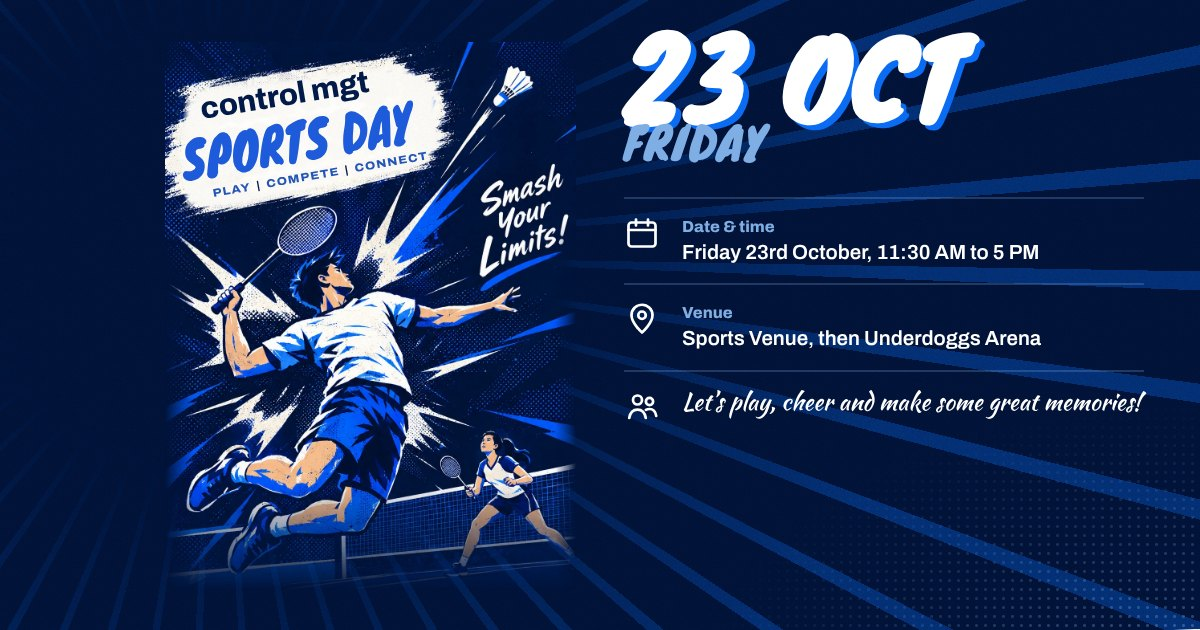
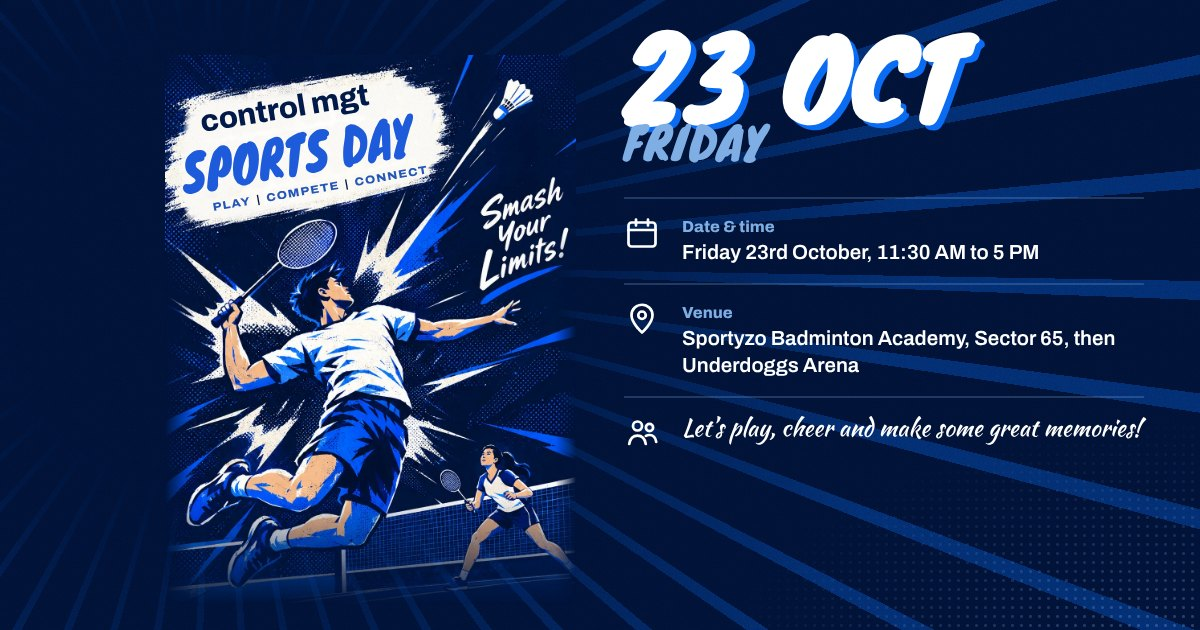
Add Sportyzo Badminton Academy as the sports venue
Claude-Session: https://claude.ai/code/session_0199VGFFxg9JU4CeF45dyatY

diff --git a/v2.html b/v2.html
@@ -4,10 +4,10 @@
 <meta charset="utf-8">
 <meta name="viewport" content="width=device-width, initial-scale=1, viewport-fit=cover">
 <meta name="theme-color" content="#050B2E">
-<meta name="description" content="Sports Day, Friday 23 October. Games at the sports venue, then food and the Strike Out bowling championship at Underdoggs Arena.">
+<meta name="description" content="Sports Day, Friday 23 October. Games at Sportyzo Badminton Academy, Sector 65, then food and the Strike Out bowling championship at Underdoggs Arena.">
 <meta property="og:type" content="website">
 <meta property="og:title" content="Control Mgt Sports Day, Friday 23 October">
-<meta property="og:description" content="Sports Day, Friday 23 October. Games at the sports venue, then food and the Strike Out bowling championship at Underdoggs Arena.">
+<meta property="og:description" content="Sports Day, Friday 23 October. Games at Sportyzo Badminton Academy, Sector 65, then food and the Strike Out bowling championship at Underdoggs Arena.">
 <meta property="og:image" content="https://kartikey-cloud.github.io/sports-day/og-v2.jpg">
 <meta property="og:image:width" content="1200">
 <meta property="og:image:height" content="630">
@@ -305,7 +305,7 @@ a{color:inherit}
       <p class="datebig">23 Oct<small>Friday</small></p>
       <ul class="info">
         <li><svg viewBox="0 0 24 24" fill="none" stroke="currentColor" stroke-width="1.8" stroke-linecap="round" stroke-linejoin="round" aria-hidden="true"><rect x="3" y="5" width="18" height="16" rx="2"/><path d="M3 10h18M8 3v4M16 3v4"/></svg><div><b>Date &amp; time</b><span>Friday 23rd October, 11:30 AM to 5 PM</span></div></li>
-        <li><svg viewBox="0 0 24 24" fill="none" stroke="currentColor" stroke-width="1.8" stroke-linecap="round" stroke-linejoin="round" aria-hidden="true"><path d="M12 21s-7-6.2-7-11.5a7 7 0 0 1 14 0C19 14.8 12 21 12 21z"/><circle cx="12" cy="9.5" r="2.5"/></svg><div><b>Venue</b><span>Sports Venue, then Underdoggs Arena</span></div></li>
+        <li><svg viewBox="0 0 24 24" fill="none" stroke="currentColor" stroke-width="1.8" stroke-linecap="round" stroke-linejoin="round" aria-hidden="true"><path d="M12 21s-7-6.2-7-11.5a7 7 0 0 1 14 0C19 14.8 12 21 12 21z"/><circle cx="12" cy="9.5" r="2.5"/></svg><div><b>Venue</b><span>Sportyzo Badminton Academy, Sector 65, then Underdoggs Arena</span></div></li>
         <li><svg viewBox="0 0 24 24" fill="none" stroke="currentColor" stroke-width="1.8" stroke-linecap="round" stroke-linejoin="round" aria-hidden="true"><circle cx="9" cy="8" r="3"/><circle cx="17" cy="9" r="2.4"/><path d="M3.5 20c.6-3.6 2.8-5.6 5.5-5.6s4.9 2 5.5 5.6M14.6 14.6c.7-.4 1.5-.6 2.4-.6 2.3 0 4 1.7 4.5 4.6"/></svg><div><span class="note">Let’s play, cheer and make some great memories!</span></div></li>
       </ul>
       <div class="kick" role="timer" aria-labelledby="kick-l">
@@ -331,8 +331,9 @@ a{color:inherit}
       <li class="panel">
         <div class="panel__fx" aria-hidden="true"><div class="speed"></div></div>
         <div class="badge"><svg viewBox="0 0 400 400" aria-hidden="true"><path d="M362.6 198.6 L375.1 230.2 L325.9 235.4 L371.5 314.7 L299.7 302.3 L293.3 346.9 L245.1 326 L240.9 395.5 L210.4 364.6 L177.4 390.2 L136.5 344.4 L87.8 349.5 L100.2 321 L40.2 316.7 L75.4 254.4 L24.5 250.2 L36.8 208.6 L26 154.1 L69.5 131.5 L36.1 110.5 L96.6 117.9 L82.6 30 L140.8 47.3 L147.8 12.9 L189.3 51 L217.2 25.2 L245 41.5 L292.6 32.8 L291 105.4 L361.1 87.5 L354.8 139.3 L388.7 149.4 Z"/></svg><p class="badge__t">11:15<small>AM</small></p></div>
-        <h3>Reach the sports venue</h3>
-        <span class="tag"><svg viewBox="0 0 24 24" fill="none" stroke="currentColor" stroke-width="2" stroke-linecap="round" stroke-linejoin="round" aria-hidden="true"><path d="M12 21s-7-6.2-7-11.5a7 7 0 0 1 14 0C19 14.8 12 21 12 21z"/><circle cx="12" cy="9.5" r="2.5"/></svg>Venue pin coming soon</span>
+        <h3>Reach Sportyzo Badminton Academy</h3>
+        <p>Emaar Emerald Hills, Golf Course Ext Road, opposite Ivory Block, Sector 65, Gurugram</p>
+        <a class="btn" href="https://maps.app.goo.gl/wKbCTDP1fDQxmLzT6?g_st=ic" target="_blank" rel="noopener"><svg viewBox="0 0 24 24" fill="none" stroke="currentColor" stroke-width="2" stroke-linecap="round" stroke-linejoin="round" aria-hidden="true"><path d="M12 21s-7-6.2-7-11.5a7 7 0 0 1 14 0C19 14.8 12 21 12 21z"/><circle cx="12" cy="9.5" r="2.5"/></svg>Navigate to Sportyzo</a>
       </li>
       <li class="panel">
         <div class="panel__fx" aria-hidden="true"><div class="speed"></div></div>
@@ -543,8 +544,8 @@ a{color:inherit}
     start: "2026-10-23T11:15:00+05:30",
     kickoff: "2026-10-23T11:30:00+05:30",
     end: "2026-10-23T17:00:00+05:30",
-    location: "Sports Venue, then Underdoggs Arena, M3M 65th Avenue, Sector 65, Gurugram",
-    details: "11:15 AM  Reach the sports venue\n11:30 AM  Competition starts (badminton, football, pickleball, basketball), expected to wrap up by 2:30 PM\n2:30 to 5:00 PM  Food + Strike Out bowling championship at Underdoggs Arena, M3M 65th Avenue, Sector 65, Gurugram"
+    location: "Sportyzo Badminton Academy, Emaar Emerald Hills, Sector 65, then Underdoggs Arena, M3M 65th Avenue, Sector 65, Gurugram",
+    details: "11:15 AM  Reach Sportyzo Badminton Academy, Emaar Emerald Hills, Sector 65\n11:30 AM  Competition starts (badminton, football, pickleball, basketball), expected to wrap up by 2:30 PM\n2:30 to 5:00 PM  Food + Strike Out bowling championship at Underdoggs Arena, M3M 65th Avenue, Sector 65, Gurugram"
   };
   const $ = (s, r = document) => r.querySelector(s);
   const $$ = (s, r = document) => Array.from(r.querySelectorAll(s));

diff --git a/v1.html b/v1.html
@@ -4,10 +4,10 @@
 <meta charset="utf-8">
 <meta name="viewport" content="width=device-width, initial-scale=1, viewport-fit=cover">
 <meta name="theme-color" content="#EAF6FE">
-<meta name="description" content="Sports Day, Friday 23 October. Games at the sports venue, then food and the Strike Out bowling championship at Underdoggs Arena.">
+<meta name="description" content="Sports Day, Friday 23 October. Games at Sportyzo Badminton Academy, Sector 65, then food and the Strike Out bowling championship at Underdoggs Arena.">
 <meta property="og:type" content="website">
 <meta property="og:title" content="Sports Day, Friday 23 October">
-<meta property="og:description" content="Sports Day, Friday 23 October. Games at the sports venue, then food and the Strike Out bowling championship at Underdoggs Arena.">
+<meta property="og:description" content="Sports Day, Friday 23 October. Games at Sportyzo Badminton Academy, Sector 65, then food and the Strike Out bowling championship at Underdoggs Arena.">
 <meta property="og:image" content="https://kartikey-cloud.github.io/sports-day/og-v1.jpg">
 <meta property="og:image:width" content="1200">
 <meta property="og:image:height" content="630">
@@ -342,7 +342,7 @@ a{color:inherit}
     <p class="tagline hand">Same Team. Different Court.</p>
     <div class="facts">
       <div class="fact"><p class="fact__k">Date &amp; time</p><p class="fact__v">Friday, 23 October<br>11:30 AM to 5:00 PM</p></div>
-      <div class="fact"><p class="fact__k">Venues</p><p class="fact__v">Sports venue, then<br>Underdoggs Arena</p></div>
+      <div class="fact"><p class="fact__k">Venues</p><p class="fact__v">Sportyzo Badminton Academy,<br>then Underdoggs Arena</p></div>
       <p class="fact fact--note">Let’s step out, team up and make some great memories!</p>
     </div>
   </div>
@@ -412,8 +412,9 @@ a{color:inherit}
         <p class="stop__time">11:15<small>AM</small></p>
         <span class="stop__dot" aria-hidden="true"></span>
         <div class="stop__body">
-          <h3 class="stop__title">Reach the sports venue</h3>
-          <div class="stop__act"><span class="pill"><svg viewBox="0 0 24 24" fill="none" stroke="currentColor" stroke-width="2" stroke-linecap="round" stroke-linejoin="round" aria-hidden="true"><path d="M12 21s-7-6.2-7-11.5a7 7 0 0 1 14 0C19 14.8 12 21 12 21z"/><circle cx="12" cy="9.5" r="2.5"/></svg>Venue pin coming soon</span></div>
+          <h3 class="stop__title">Reach Sportyzo Badminton Academy</h3>
+          <p class="stop__text">Emaar Emerald Hills, Golf Course Ext Road, opposite Ivory Block, Sector 65, Gurugram</p>
+          <div class="stop__act"><a class="btn" href="https://maps.app.goo.gl/wKbCTDP1fDQxmLzT6?g_st=ic" target="_blank" rel="noopener"><svg viewBox="0 0 24 24" fill="none" stroke="currentColor" stroke-width="2" stroke-linecap="round" stroke-linejoin="round" aria-hidden="true"><path d="M12 21s-7-6.2-7-11.5a7 7 0 0 1 14 0C19 14.8 12 21 12 21z"/><circle cx="12" cy="9.5" r="2.5"/></svg>Navigate to Sportyzo</a></div>
         </div>
       </li>
       <li class="stop">
@@ -627,8 +628,8 @@ a{color:inherit}
     start: "2026-10-23T11:15:00+05:30",
     kickoff: "2026-10-23T11:30:00+05:30",
     end: "2026-10-23T17:00:00+05:30",
-    location: "Sports venue, then Underdoggs Arena, M3M 65th Avenue, Sector 65, Gurugram",
-    details: "11:15 AM  Reach the sports venue\n11:30 AM  Competition starts (badminton, paddleball, pickleball), expected to wrap up by 2:30 PM\n2:30 to 5:00 PM  Food + Strike Out bowling championship at Underdoggs Arena, M3M 65th Avenue, Sector 65, Gurugram"
+    location: "Sportyzo Badminton Academy, Emaar Emerald Hills, Sector 65, then Underdoggs Arena, M3M 65th Avenue, Sector 65, Gurugram",
+    details: "11:15 AM  Reach Sportyzo Badminton Academy, Emaar Emerald Hills, Sector 65\n11:30 AM  Competition starts (badminton, paddleball, pickleball), expected to wrap up by 2:30 PM\n2:30 to 5:00 PM  Food + Strike Out bowling championship at Underdoggs Arena, M3M 65th Avenue, Sector 65, Gurugram"
   };
   const $ = (s, r = document) => r.querySelector(s);
   const $$ = (s, r = document) => Array.from(r.querySelectorAll(s));

diff --git a/index.html b/index.html
@@ -6,7 +6,7 @@
 <title>Control Mgt Sports Day</title>
 <meta name="description" content="Sports Day invite, Friday 23 October. Two versions to choose from.">
 <meta property="og:title" content="Control Mgt Sports Day, Friday 23 October">
-<meta property="og:description" content="Games at the sports venue, then food and the Strike Out bowling championship at Underdoggs Arena.">
+<meta property="og:description" content="Games at Sportyzo Badminton Academy, Sector 65, then food and the Strike Out bowling championship at Underdoggs Arena.">
 <meta property="og:image" content="https://kartikey-cloud.github.io/sports-day/og-v2.jpg">
 <meta property="og:url" content="https://kartikey-cloud.github.io/sports-day/">
 <meta name="twitter:card" content="summary_large_image">
